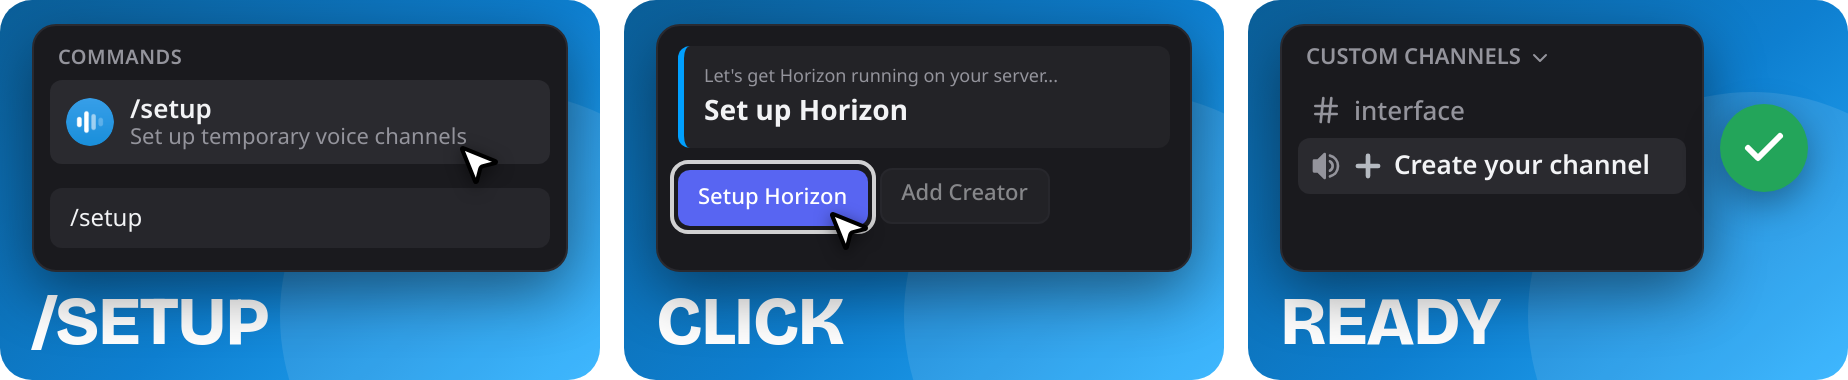
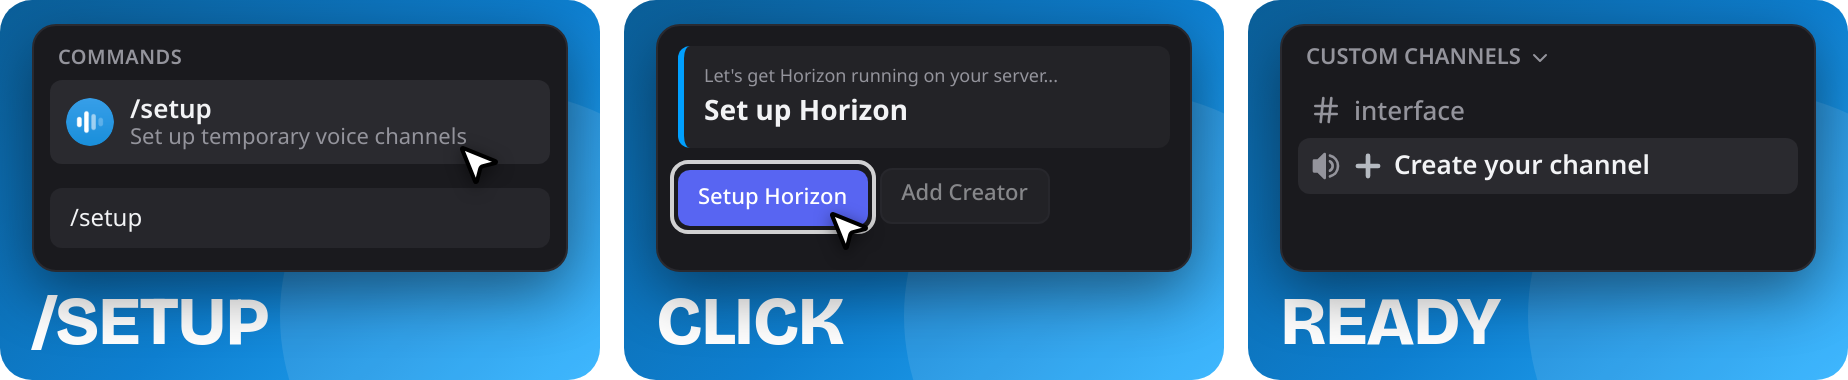
Show step images in the quickstart instead of Discord mocks
The images match what the bot's welcome message shows, so the
quickstart and Discord tell the same story. The green check on the last
setup card is gone because the channel list already shows the result.

Changed region(s): [[0.8945, 0.0579, 1.0, 0.8395]]

diff --git a/src/app/welcome-cards/page.tsx b/src/app/welcome-cards/page.tsx
@@ -1,6 +1,6 @@
 import type { ReactNode } from "react";
 import { notFound } from "next/navigation";
-import { Check, ChevronDown, Hash, MousePointer2 } from "lucide-react";
+import { ChevronDown, Hash, MousePointer2 } from "lucide-react";
 import { PlusEmoji } from "@/components/discord-mock/DiscordEmojis";
 import { SpeakerIcon } from "@/components/discord-mock/DiscordIcons";
 import { withBase } from "@/lib/base";
@@ -79,26 +79,21 @@ function SetupMenuScene() {
 
 function SetupDoneScene() {
   return (
-    <>
-      <Scene className="bottom-[54px] left-4 right-[72px] top-3 bg-dc-bg px-2 pt-2 text-[13px]">
-        <p className="flex items-center gap-1 px-1 pb-1 text-[11px] font-semibold uppercase text-dc-muted">
-          Custom Channels
-          <ChevronDown className="size-3" />
-        </p>
-        <div className="flex items-center gap-1.5 rounded-md px-1.5 py-1 text-dc-muted">
-          <Hash className="size-4" />
-          <span className="font-medium">interface</span>
-        </div>
-        <div className="flex items-center gap-1.5 rounded-md bg-dc-selected px-1.5 py-1">
-          <SpeakerIcon className="size-4 text-dc-muted" />
-          <PlusEmoji className="size-3.5" />
-          <span className="font-semibold text-dc-text-strong">Create your channel</span>
-        </div>
-      </Scene>
-      <span className="absolute right-5 top-[52px] grid size-11 place-items-center rounded-full bg-[#23a55a] shadow-[0_6px_18px_rgba(0,0,0,0.35)]">
-        <Check className="size-6 text-white" strokeWidth={3} />
-      </span>
-    </>
+    <Scene className="bottom-[54px] left-4 right-4 top-3 bg-dc-bg px-2 pt-2 text-[13px]">
+      <p className="flex items-center gap-1 px-1 pb-1 text-[11px] font-semibold uppercase text-dc-muted">
+        Custom Channels
+        <ChevronDown className="size-3" />
+      </p>
+      <div className="flex items-center gap-1.5 rounded-md px-1.5 py-1 text-dc-muted">
+        <Hash className="size-4" />
+        <span className="font-medium">interface</span>
+      </div>
+      <div className="flex items-center gap-1.5 rounded-md bg-dc-selected px-1.5 py-1">
+        <SpeakerIcon className="size-4 text-dc-muted" />
+        <PlusEmoji className="size-3.5" />
+        <span className="font-semibold text-dc-text-strong">Create your channel</span>
+      </div>
+    </Scene>
   );
 }
 
